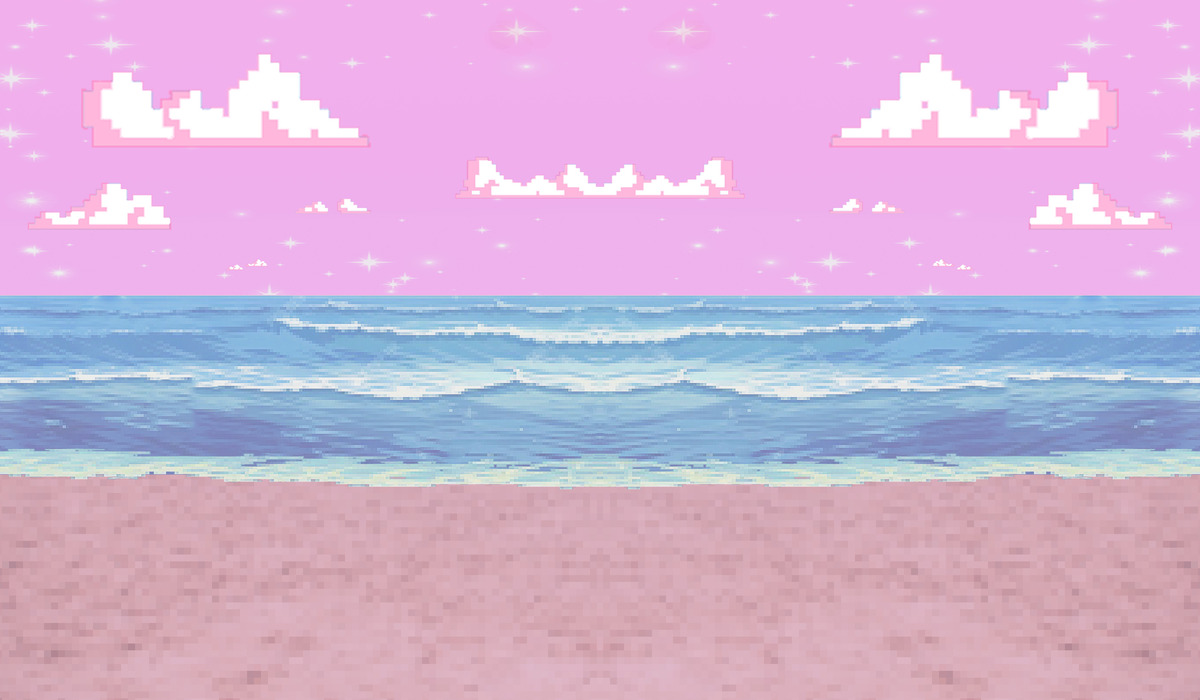
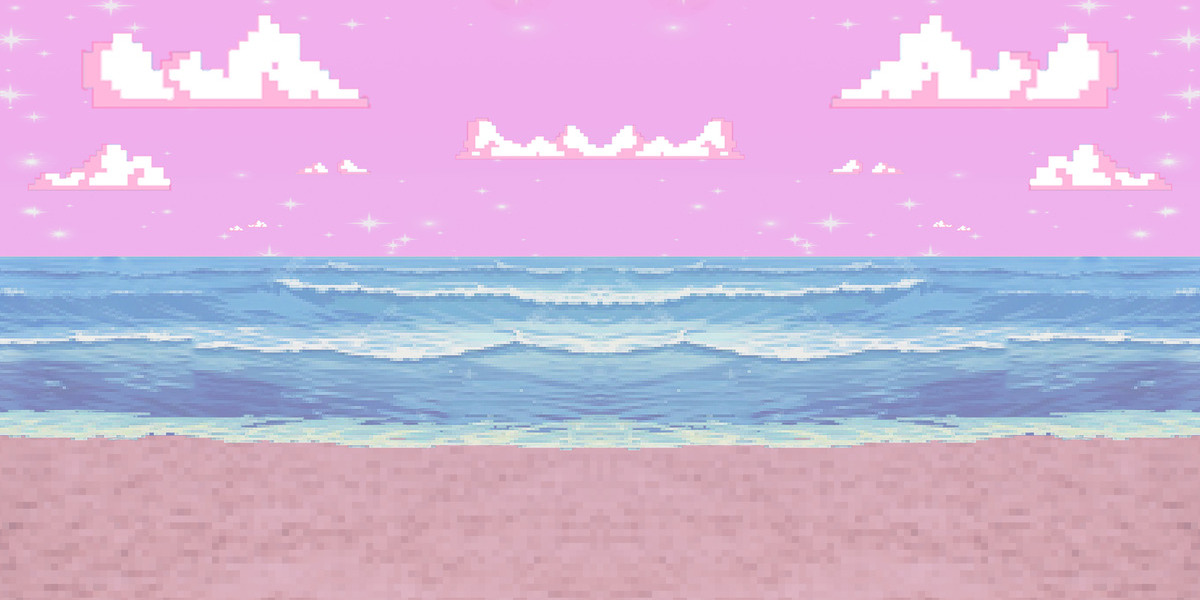
troubleshooting, but this is my working jump code with a new background keyframe properties

diff --git a/style.css b/style.css
@@ -1,42 +1,36 @@
 .game {
-margin-left: auto;
-margin-right: auto;
-width: 1200px;
-height: 700px;
-border: 2px solid;
-overflow: hidden;
-position: relative;
-}
-.scroll{
-height: 700px;
-width: 3600px;
-background-image: url('./assets/gameBackgroundResized.jpeg');
-animation: backgroundMotion 5s linear infinite;
-}
-@keyframes backgroundMotion {
-    0% {
-        transform: translate3d(0, 0, 0);
-    }
-    100% {
-        transform: translate3d(-1200px, 0, 0);
-    }
-}
-
-.kitty {
-width: 270px;
-height: 190px;
-position: absolute;
-bottom: 7%;
-left: 5%;
-background-image: url('./assets/myCat.gif');
-}
-.jumpAnimation{
-    animation: jump 550ms;
-}
-@keyframes jump {
-    0%{bottom: 7%;}
-    30%{bottom: 50%;}
-    70%{bottom: 50%;}
-    100%{bottom: 7%;}
-}
-
+        margin-left: auto;
+        margin-right: auto;
+        width: 1200px;
+        height: 600px;
+        border: 2px solid;
+        overflow: hidden;
+        position: relative;
+        }
+        .scroll{
+        height: 600px;
+        width: 3600px;
+        background-image: url('./assets/gameBackgroundResized.jpeg');
+        animation: backgroundMotion 5s linear infinite;
+        }
+        @keyframes backgroundMotion {
+            0% {background-position: 1200px;}
+            100%{ background-position: -1200px;}
+            }
+        
+        .kitty {
+        width: 270px;
+        height: 190px;
+        position: absolute;
+        bottom: 7%;
+        left: 5%;
+        }
+        .jumpAnimation{
+            animation: jump 550ms;
+        }
+        @keyframes jump {
+            0%{bottom: 7%;}
+            30%{bottom: 50%;}
+            70%{bottom: 50%;}
+            100%{bottom: 7%;}
+        }

diff --git a/index.html b/index.html
@@ -6,14 +6,24 @@
     <title>Kitty Run</title>
     <link rel="stylesheet" href="style.css">
 </head>
-<body  onclick="jump()">
+<body onkeydown="jump()">
     <div class="game">
-        <div class="scroll"></div>
-        <div class="kitty"></div>
-        <div class="crab"></div>
-        <div class="castle"></div>
-        <div class="girl"></div>
+            <div class="scroll">
+        <div class="kitty">
+            <img src="./assets/myCat.gif">
+        </div>
+        <div class="crab">
+            <img src="./assets/crab114.gif">
+        </div>
+        <div class="castle">
+            <img src="./assets/castle225.png">
+        </div>
+        <div class="girl">
+            <img src="./assets/girl215.gif">
+        </div>
     </div>
+</div>
+ </body>
     <script src="script.js"></script>
 </body>
 </html>

diff --git a/script.js b/script.js
@@ -1,4 +1,5 @@
 const kitty = document.querySelector(".kitty");
+const obstacle = document.querySelector(".obstacle");
 
 function jump(){
     kitty.classList.add("jumpAnimation");
@@ -6,3 +7,11 @@ function jump(){
     kitty.classList.remove("jumpAnimation");  
     }, 500)
 }
+
+setInterval(() => {
+const kittyTop = parseInt(window.getComputedStyle(kitty).getPropertyValue('top'));
+const obstacleLeft = parseInt(window.getComputedStyle(obstacle).getPropertyValue('left'));
+},50);
+
+
+
